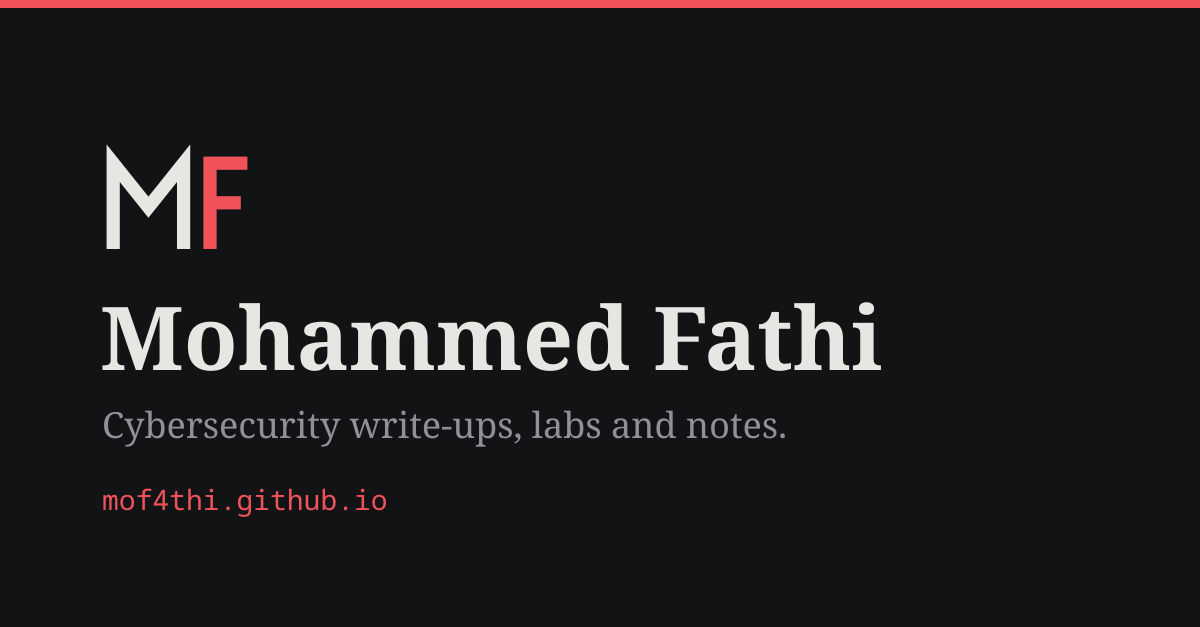
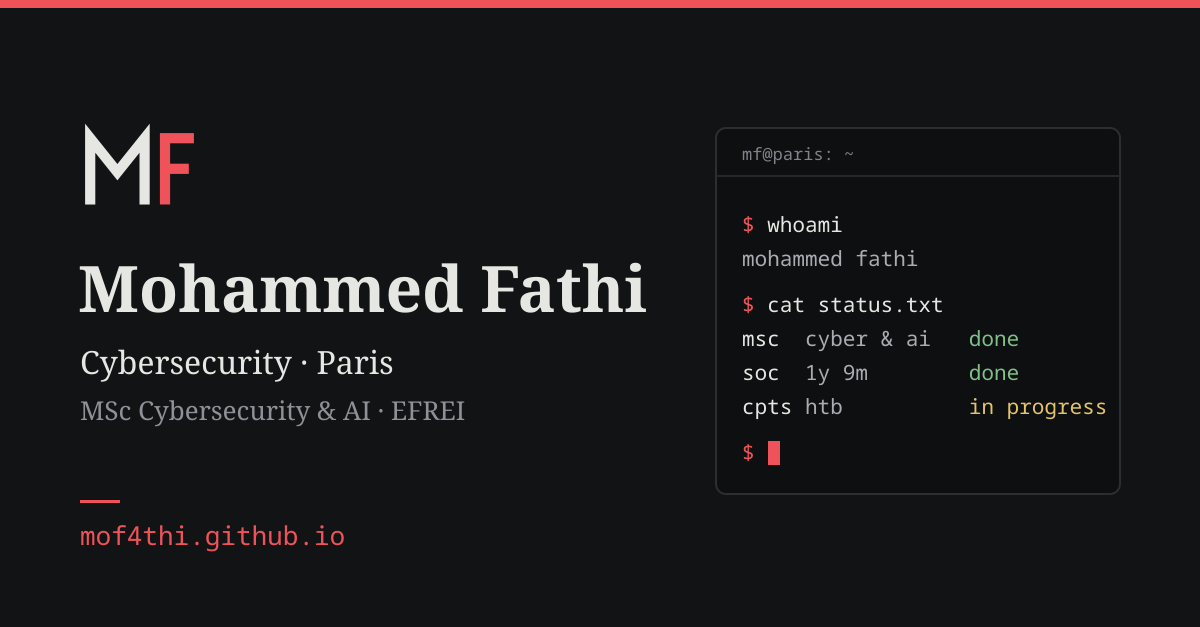
add thumbnail

diff --git a/src/i18n/ui.ts b/src/i18n/ui.ts
@@ -30,6 +30,7 @@ export const ui = {
     'nav.contact': 'contact',
     'nav.main': 'Main',
     'lang.group': 'Language',
+    'og.alt': 'Mohammed Fathi, cybersecurity, Paris. MSc Cybersecurity and AI, EFREI.',
 
     'home.lead.1': 'Cybersecurity professional based in Paris, with an',
     'home.lead.degree': 'MSc in Cybersecurity and AI',
@@ -85,6 +86,7 @@ export const ui = {
     'nav.contact': 'contact',
     'nav.main': 'Navigation principale',
     'lang.group': 'Langue',
+    'og.alt': 'Mohammed Fathi, cybersécurité, Paris. MSc Cybersécurité et IA, EFREI.',
 
     'home.lead.1': 'Professionnel de la cybersécurité basé à Paris, titulaire d’un',
     'home.lead.degree': 'MSc Cybersécurité et IA',

diff --git a/CLAUDE.md b/CLAUDE.md
@@ -56,4 +56,4 @@ The homepage hero has three animations, all skipped under `prefers-reduced-motio
 - The station blanche project was built for a defense-sector client. Never add the client's name, repository links, hostnames or internal paths.
 
 - `src/content/articles/template-article.md` is the starting point for new articles. It has `draft: true`, so it only shows up in `npm run dev`.
-- `public/og-image.png` is rendered from an SVG with `sharp`. If you change the palette, regenerate it to match.
+- **Link-preview images** (`public/og-image.png`, `public/og-image-fr.png`, 1200×627, used by LinkedIn and other sites) are rendered from `scripts/og/en.svg` and `fr.svg` with `node scripts/og/render.mjs`. They repeat the homepage terminal's status lines, so when a status changes (e.g. CPTS passed), update `src/components/Terminal.astro` and both SVGs, then re-render.
